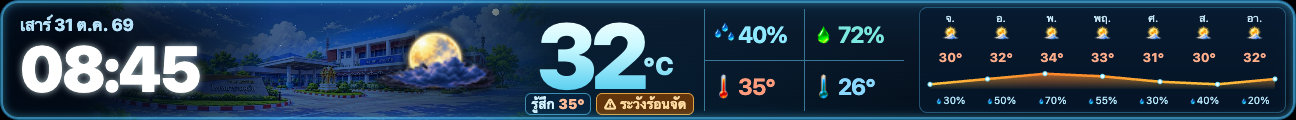
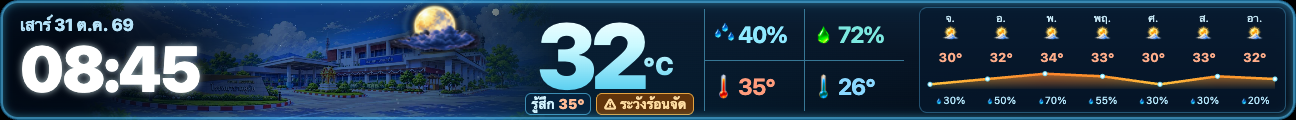
Fit animated weather conditions inside LED display

diff --git a/v2/weather-luxury.html b/v2/weather-luxury.html
@@ -16,19 +16,18 @@
 /* V4: center the warning below the reading and improve contrast behind the icon. */
 .temp{left:537px}.feel{left:537px;width:144px;justify-content:center;white-space:nowrap}
 .icon{left:333px;top:-20px;width:205px;height:205px;filter:drop-shadow(0 1px 3px rgba(0,0,0,.65)) drop-shadow(0 0 6px rgba(2,8,20,.55)) drop-shadow(0 0 16px rgba(0,5,15,.5))}
-/* icon align: sun/moon baseline */
-/* The board is 3x native LED size: move cloud-only art up 6 board px = 2 display px. */
+/* Keep the animated silhouette within the LED frame. Artwork includes different
+   amounts of transparent padding; size and top must be set per condition. */
 .icon[data-condition="night"]{top:-7px}
-.icon[data-condition="night-rain"]{top:-7px}
-.icon[data-condition="night-thunderstorm"]{top:-7px}
-.icon[data-condition="night-wind"]{top:-7px}
-.icon[data-condition="cloudy"]{top:-26px}
-.icon[data-condition="fog"]{top:-26px}
-.icon[data-condition="rain"]{top:-26px}
-.icon[data-condition="thunderstorm"]{top:-26px}
-.icon[data-condition="wind"]{top:-26px}
+.icon[data-condition="night-rain"],.icon[data-condition="night-thunderstorm"]{top:-25px;width:160px;height:160px;left:355px}
+.icon[data-condition="night-wind"]{top:-24px;width:200px;height:200px;left:336px}
+/* Cloud-only conditions are raised by six board pixels (two LED pixels)
+   relative to the original sun/cloud position. Rain art is smaller to keep drops in frame. */
+.icon[data-condition="cloudy"],.icon[data-condition="fog"]{top:-26px}
+.icon[data-condition="wind"]{top:-28px}
+.icon[data-condition="rain"],.icon[data-condition="thunderstorm"]{top:-29px;width:160px;height:160px;left:355px}
 
 html,body{margin:0;width:432px;height:40px;overflow:hidden;background:#000}.board{left:0;top:0;transform:scale(0.3333333333)}</style></head><body><section class="board" id="board" aria-label="สภาพอากาศจากแบบจำลอง Open-Meteo"><img class="scene" id="scene" alt=""><div class="clock"><span class="date" id="date"></span><span class="time" id="time"></span></div><img class="icon" id="icon" alt=""><img class="icon icon-poster" id="poster" alt=""><span class="heading">สภาพอากาศ</span><div class="temp"><span id="temp">—</span><small>°C</small></div><div class="feel"><span class="feel-value">รู้สึก <b id="feels">—</b></span><span class="heat-tag" id="advice" hidden></span></div><div class="stats"><div class="stat rain" aria-label="โอกาสฝน"><span class="rain-symbol" aria-hidden="true"><img src="weather-assets/drop.png" alt=""><img src="weather-assets/drop.png" alt=""><img src="weather-assets/drop.png" alt=""></span><b id="rain">—</b></div><div class="stat humidity" aria-label="ความชื้น"><img src="weather-assets/drop.png" alt=""><b id="humidity">—</b></div><div class="stat high" aria-label="อุณหภูมิสูงสุด"><img src="weather-assets/thermometer.png" alt=""><b id="high">—</b></div><div class="stat low" aria-label="อุณหภูมิต่ำสุด"><img src="weather-assets/thermometer.png" alt=""><b id="low">—</b></div></div><div class="forecast"><div class="forecast-title">พยากรณ์ 7 วัน · โอกาสฝนรายวัน*</div><div class="days" id="days"></div><svg class="graph" viewBox="0 0 350 20" preserveAspectRatio="none"><defs><linearGradient id="graphfill" gradientUnits="userSpaceOnUse" x1="0" y1="0" x2="350" y2="0"></linearGradient><linearGradient id="fade" x1="0" y1="0" x2="0" y2="1"><stop offset="0%" stop-color="white" stop-opacity=".85"/><stop offset="100%" stop-color="white" stop-opacity=".05"/></linearGradient><mask id="graphfade"><rect width="350" height="20" fill="url(#fade)"/></mask></defs><path id="area" mask="url(#graphfade)"/><path id="line" fill="none"/><g id="points"></g></svg></div></section>
 <script src="weather-snapshot.js"></script>
-<script src="weather-luxury.js?v=20261031-icon-align-2"></script>
+<script src="weather-luxury.js?v=20261031-icon-fit-3"></script>
 </body></html>

diff --git a/v2/index.html b/v2/index.html
@@ -553,7 +553,7 @@ html.led-screen .scale>div,html.led-screen .scale>iframe{transform:none!importan
 </article>
 
 <article><h2>2. Weather — ใช้ดีไซน์ 8124 พร้อม 3D cloud / rain / lightning เดิม</h2>
-<div class="stage-wrap"><div class="scale"><iframe class="ledframe" title="Weather Luxury Design 432 by 40" src="./weather-luxury.html?v=20261031-icon-align-2"></iframe></div></div>
+<div class="stage-wrap"><div class="scale"><iframe class="ledframe" title="Weather Luxury Design 432 by 40" src="./weather-luxury.html?v=20261031-icon-fit-3"></iframe></div></div>
 <small id="weather-source">รอดึงพยากรณ์ Open-Meteo · MODEL FORECAST</small></article>
 <article><h2>3. Water — Luxury V3.2 · HII/Google Sheet</h2>
 <div class="stage-wrap"><div class="scale">

diff --git a/index.html b/index.html
@@ -16,7 +16,7 @@ body{width:432px;height:40px}
 </head><body>
 <main class="uth-led" aria-label="บอร์ดสิ่งแวดล้อมโรงพยาบาลอุทัย">
 <iframe title="PM2.5 อากาศ และระดับน้ำ — แถบ LED ขนาด 432×40 เปลี่ยนหน้าทุก 22 วินาที"
-src="./v2/index.html?display=led&amp;v=20261031-icon-align-2" loading="eager" referrerpolicy="strict-origin-when-cross-origin"></iframe>
+src="./v2/index.html?display=led&amp;v=20261031-icon-fit-3" loading="eager" referrerpolicy="strict-origin-when-cross-origin"></iframe>
 </main>
 <noscript>กรุณาเปิด JavaScript เพื่อแสดงข้อมูลล่าสุด</noscript>
 </body></html>

diff --git a/README.md b/README.md
@@ -129,7 +129,7 @@ ThaiWater ───┘
 - เวลาข้อมูลจากต้นทางและเวลาบันทึกเป็นคนละค่า ข้อมูลเก่าหรือข้อมูลที่ไม่มีต้องไม่ถูกแสดงเป็นข้อมูลสดหรือแทนด้วยศูนย์ กราฟจะเว้นช่องที่ไม่มีข้อมูลจริง
 - ข้อมูล PM และ snapshot ที่ระบบใหม่เป็นเจ้าของมีนโยบายเก็บสูงสุด 90 วัน; snapshot พยากรณ์เก็บ 2 วัน แถวระดับน้ำที่ระบบใหม่เป็นเจ้าของและผ่านการตรวจรูปแบบมีนโยบาย 90 วัน ไม่ลบข้อมูลเก่าที่ระบุเจ้าของไม่ได้โดยอัตโนมัติ
 - ใช้ Google Sheet และ Apps Script เดิมที่ผูกกันอยู่ ไม่สร้างฐานข้อมูลแยกสำหรับป้ายนี้
-- ณ จุดตรวจวันที่ 31 ตุลาคม 2569 การดึงและบันทึกด้วยมือผ่านแล้ว แต่ **ยังรอหลักฐานรอบ trigger รายชั่วโมงอัตโนมัติหลังติดตั้ง** อย่าใช้เอกสารนี้แทนการตรวจสถานะปัจจุบัน
+- ณ จุดตรวจวันที่ 31 ตุลาคม 2569 ระบบแสดงค่ารายชั่วโมงและค่าเฉลี่ย 24 ชั่วโมงจาก snapshot ได้แล้ว โดย snapshot ที่ตรวจบันทึกเวลา 19:56 น. เวลาแหล่งข้อมูลจริงอาจต่างกัน โปรดตรวจสถานะและ trigger ล่าสุดก่อนเปลี่ยนการตั้งค่า
 
 ตรวจเลข cache version ของแต่ละหน้าและขอบเขตการตรวจล่าสุดได้ที่ [บันทึกเวอร์ชัน](docs/readme/VERSIONS.md)
 

diff --git a/docs/readme/VERSIONS.md b/docs/readme/VERSIONS.md
@@ -4,10 +4,10 @@
 
 | ส่วน | ไฟล์ | cache version ใน URL |
 | --- | --- | --- |
-| ตัวสลับหน้าที่ `index.html` โหลด | `v2/index.html` | `20261031-icon-align-2` |
+| ตัวสลับหน้าที่ `index.html` โหลด | `v2/index.html` | `20261031-icon-fit-3` |
 | PM2.5 | `v2/pm25-live.html`, `v2/pm25-live.js` และ `v2/pm25-tier.js` | `20261031-pm25-24h-1` (สีอิงค่าเฉลี่ย 24 ชั่วโมง, 2026-10-31) |
-| Weather | `v2/weather-luxury.html` | `20261031-icon-align-2` (halo + ยกกลุ่มเมฆล้วน 2 พิกเซลบน LED จริง, 2026-10-31) |
-| Weather script | `v2/weather-luxury.js` | `20261031-icon-align-2` |
+| Weather | `v2/weather-luxury.html` | `20261031-icon-fit-3` (halo ตามรูปทรงและปรับภาพฝนให้พอดีกรอบ, 2026-10-31) |
+| Weather script | `v2/weather-luxury.js` | `20261031-icon-fit-3` |
 | Water | `v2/water-luxury-live.html`, CSS และ script | `20261030-water-1` |
 | ตัวอ่านข้อมูล Sheet | `v2/api-client.js` | `20261031-pm25-24h-1` (ส่ง avg24h + band ต่อ, 2026-10-31) |
 | ตัวอ่าน legacy v1 ในหน้า v2 | `led-rotation.js` | `20261031-pm25-compat-1` (สีใช้ avg24h เท่านั้น; อ่าน bandBasis/avg24hBand) |
